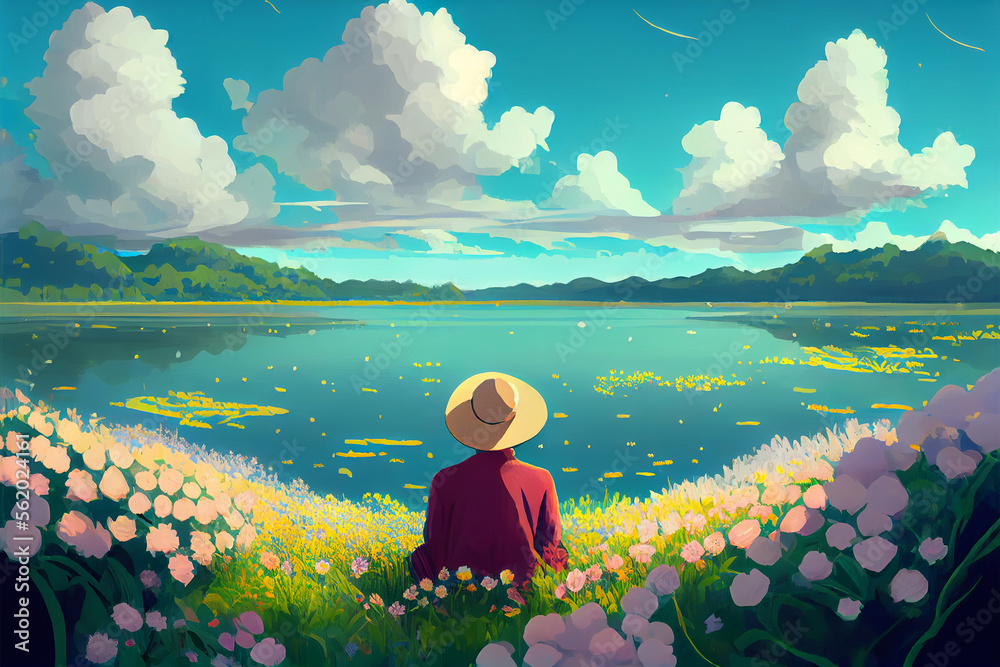
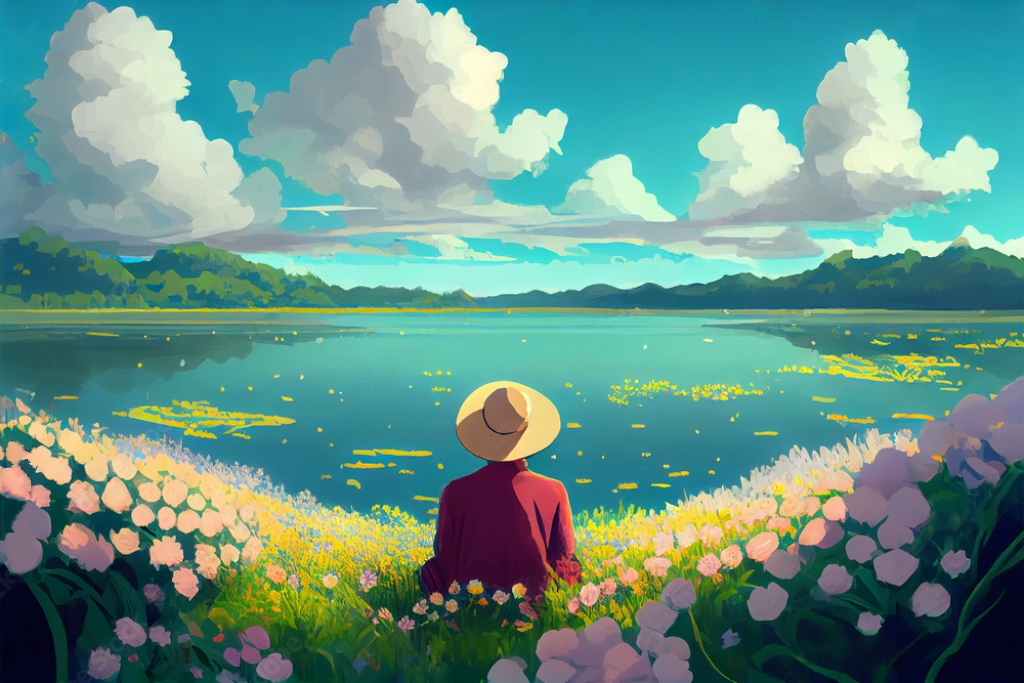
Se cambio la hero image placeholder por la versión final de la misma

diff --git a/pages/productos.html b/pages/productos.html
@@ -43,7 +43,7 @@
                 <!-- NAV BAR -->
                 <!-- Segundo elemento -->
                 <div class="collapse navbar-collapse col-sm-6 col-md-5 col-lg-5 col-xxl-7 d-flex align-items-center justify-content-center" id="navbarSupportedContent">
-                    <ul class="navbar-nav"> <!-- Segundo elemento -->
+                    <ul class="navbar-nav">
                         <li class="nav-item">
                             <a class="nav-link active text-light" aria-current="page" href="../index.html">Home</a>
                         </li>
